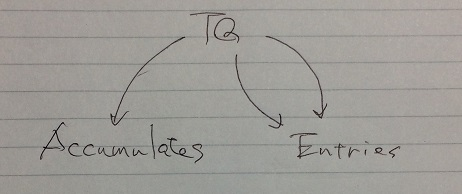
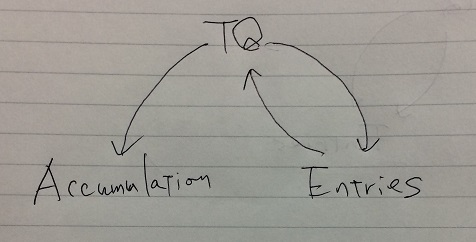
corrected pictures

diff --git a/src/fluctuation/Builder.md b/src/fluctuation/Builder.md
@@ -57,9 +57,13 @@ Because of that demanding cost, I wanted to avoid the conversions from and to Ac
 As long as using the circulated conversions shown in class Conversions, it's impossible to avoid a wasteful detour go through Accumulations.
 So to avoid this wasteful detour, class Builder has this structure.
 
+![triangle](Builder02.jpg)
+
 Of course, the conversion route back from Accumulates is needed.
 By adding that path to BuildingR, a subclass of Building, makes everything perfect.
 And it's really easy.
+
+![triangle](Builder03.jpg)
 
 A decision though simple is needed to make use of these.
 Which form of data do you start from?.
